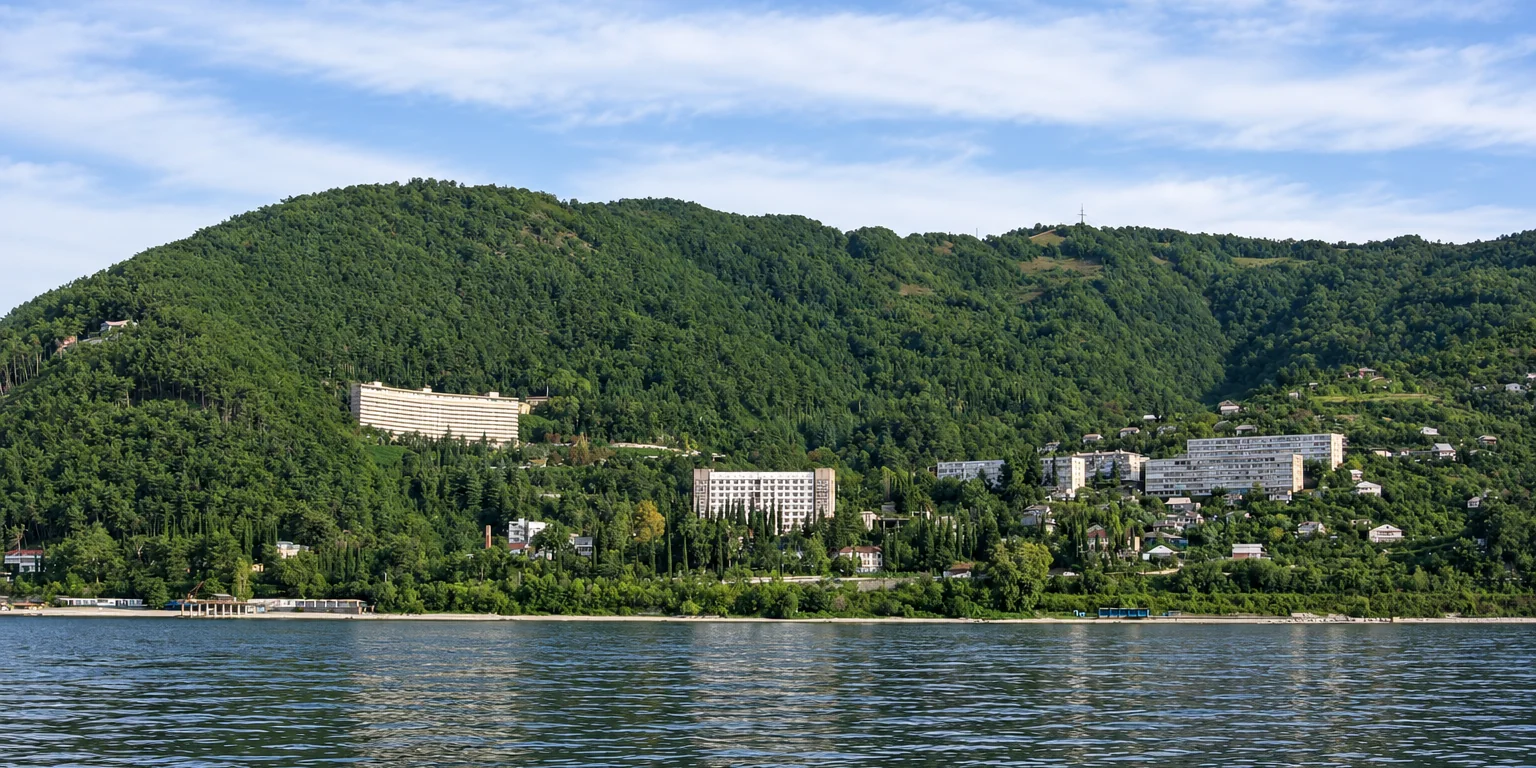
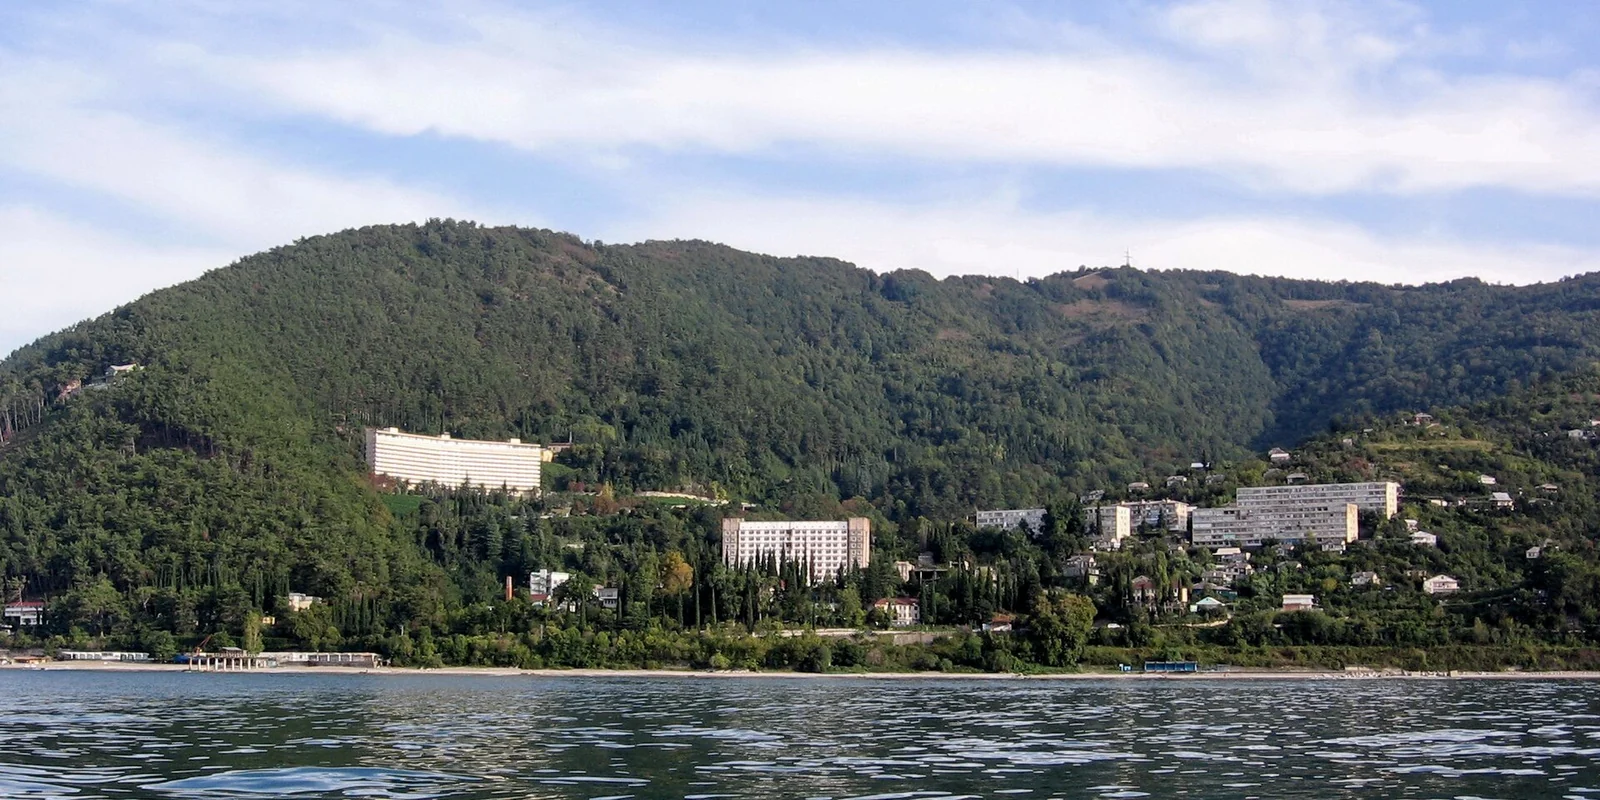
Пляж, Гагра и Холодная речка с моря: настоящие фото вместо перерисовок
Оригиналы с Wikimedia Commons (CC BY-SA 3.0, авторство на месте),
только обрезка и уменьшение. Приёмщик забраковал перерисовки Codex:
галька, лес и дома были дорисованы.

diff --git a/index.html b/index.html
@@ -438,7 +438,7 @@
 
   <div class="container">
     <figure class="panorama">
-      <div class="panorama__img"><img width="1536" height="768" src="assets/img/bagripsh-sea-lg.webp" srcset="assets/img/bagripsh-sea-sm.webp 800w, assets/img/bagripsh-sea-lg.webp 1536w" sizes="(max-width: 900px) 100vw, 1440px" alt="Холодная речка с моря: зелёный склон Гагрского хребта спускается к воде" loading="lazy"></div>
+      <div class="panorama__img"><img width="1600" height="800" src="assets/img/bagripsh-sea-lg.webp" srcset="assets/img/bagripsh-sea-sm.webp 800w, assets/img/bagripsh-sea-lg.webp 1600w" sizes="(max-width: 900px) 100vw, 1440px" alt="Холодная речка с моря: зелёный склон Гагрского хребта спускается к воде" loading="lazy"></div>
       <figcaption>Холодная речка со стороны моря
         <small class="credit">Фото: <a href="https://commons.wikimedia.org/wiki/File:%D0%A5%D0%BE%D0%BB%D0%BE%D0%B4%D0%BD%D0%B0%D1%8F_%D1%80%D0%B5%D1%87%D0%BA%D0%B0_-_panoramio_-_Fr0nt.jpg" target="_blank" rel="noopener">Fr0nt</a>, <a href="https://creativecommons.org/licenses/by-sa/3.0/deed.ru" target="_blank" rel="noopener">CC BY-SA 3.0</a>, Wikimedia Commons, обработано</small></figcaption>
     </figure>

diff --git a/en/index.html b/en/index.html
@@ -422,7 +422,7 @@
 
   <div class="container">
     <figure class="panorama">
-      <div class="panorama__img"><img width="1536" height="768" src="../assets/img/bagripsh-sea-lg.webp" srcset="../assets/img/bagripsh-sea-sm.webp 800w, ../assets/img/bagripsh-sea-lg.webp 1536w" sizes="(max-width: 900px) 100vw, 1440px" alt="Kholodnaya Rechka from the sea: the green slope of the Gagra Range runs down to the water" loading="lazy"></div>
+      <div class="panorama__img"><img width="1600" height="800" src="../assets/img/bagripsh-sea-lg.webp" srcset="../assets/img/bagripsh-sea-sm.webp 800w, ../assets/img/bagripsh-sea-lg.webp 1600w" sizes="(max-width: 900px) 100vw, 1440px" alt="Kholodnaya Rechka from the sea: the green slope of the Gagra Range runs down to the water" loading="lazy"></div>
       <figcaption>Kholodnaya Rechka seen from the sea
         <small class="credit">Photo: <a href="https://commons.wikimedia.org/wiki/File:%D0%A5%D0%BE%D0%BB%D0%BE%D0%B4%D0%BD%D0%B0%D1%8F_%D1%80%D0%B5%D1%87%D0%BA%D0%B0_-_panoramio_-_Fr0nt.jpg" target="_blank" rel="noopener">Fr0nt</a>, <a href="https://creativecommons.org/licenses/by-sa/3.0/deed.en" target="_blank" rel="noopener">CC BY-SA 3.0</a>, Wikimedia Commons, retouched</small></figcaption>
     </figure>
